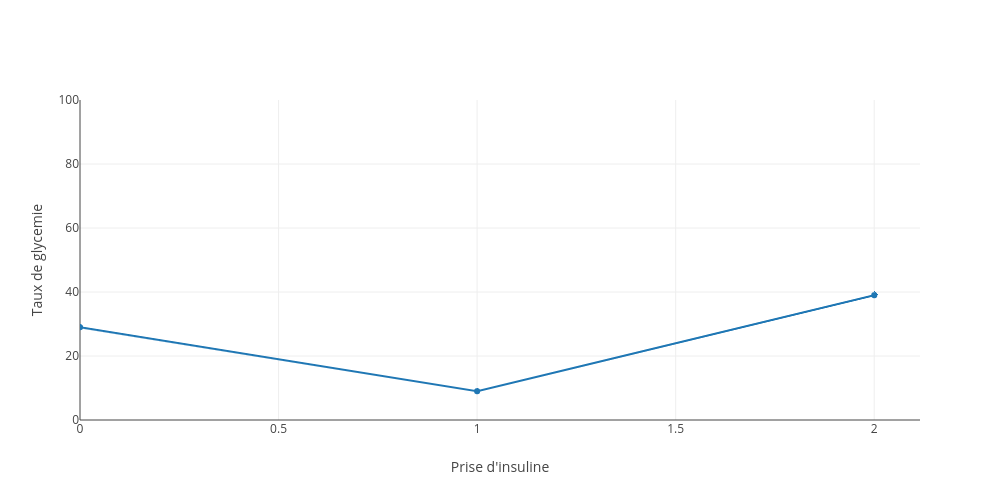
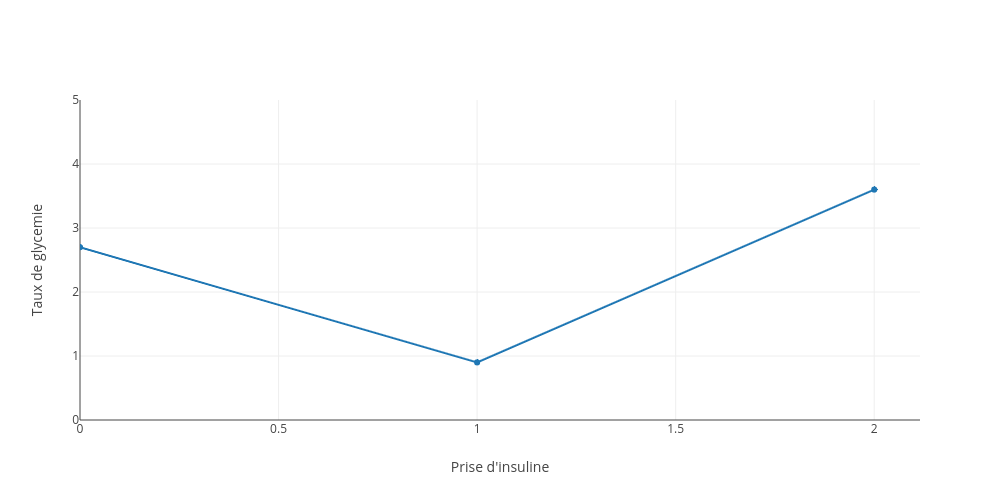
amelioration du channel informations

diff --git a/myBotThomas/affichageStats.js b/myBotThomas/affichageStats.js
@@ -46,6 +46,7 @@ exports.graphString = async function(bornMin, bornMax, tabDonnes, message, parti
     y: tabDonnes,
     type: 'scatter',
   };
+  
   const layout = {
     showlegend: false,
     xaxis: { // wip : nb jour?
@@ -62,12 +63,31 @@ exports.graphString = async function(bornMin, bornMax, tabDonnes, message, parti
 
   const chanId = myBot.messageChannel(message, "informations", partie);
 
+  async function clear() {
+    //message.delete();
+    const fetched = await message.guild.channels.get(chanId).fetchMessages({limit: 2});
+    message.guild.channels.get(chanId).bulkDelete(fetched);
+  }
+  
+  if(partie.numJour != 0 || partie.partJour != 0){
+    clear()
+    .catch((err) => {
+      console.log(err)
+    });
+  }
+
+
+  const embed = new Discord.RichEmbed()
+  .setColor(0x00AE86)
+  .addField("**Taux de glycémie**", "Taux de glycemie : " + partie.glycemie + " g/L\nIntervalle à atteindre : entre 0.7 g/L et 1.3 g/L")
+
   plotly.getImage(figure, imgOpts, function(error, imageStream) {
       if (error) return console.log (error);
       const fileStream = fs.createWriteStream('./' + partie.player + '.png');
       const stream = imageStream.pipe(fileStream);
       stream.on('finish', async function() {
         await message.guild.channels.get(chanId).send({ files :['./' + partie.player + '.png'] });
+        await message.guild.channels.get(chanId).send({embed});
       });
   });
 };

diff --git a/myBotThomas/event.js b/myBotThomas/event.js
@@ -128,12 +128,12 @@ function consequence(message, partie, tabN, tabE){
 
 function eventInsu(message, partie){
 
-	partie.glycemie = (partie.glycemie + 30)%50;
+	partie.glycemie = Math.round(((partie.glycemie + 2.7)%4.5)*10)/10;
 
 	partie.tabGlycemie.push(partie.glycemie);
 	sfm.save(message.author.id, partie);
 
-	as.graphString(0, 100, partie.tabGlycemie, message, partie)
+	as.graphString(0, 5, partie.tabGlycemie, message, partie)
 	.then(() => {
 		insuline.priseInsuline(message, partie);
 	});

diff --git a/myBotThomas/initJeu.js b/myBotThomas/initJeu.js
@@ -105,7 +105,7 @@ function initChannelGrp(message, partie, channelGrpName, rolePers, config) {
     	partie.insuline = 0;
 		partie.activite = [];
 		partie.consequence = [];
-		partie.glycemie = -1;
+		partie.glycemie = 0;
 		partie.tabGlycemie = [];
 		initChannel(message, partie, rolePers, 'Hub', res, config);
 		initChannel(message, partie, rolePers, 'Informations', res, config);
